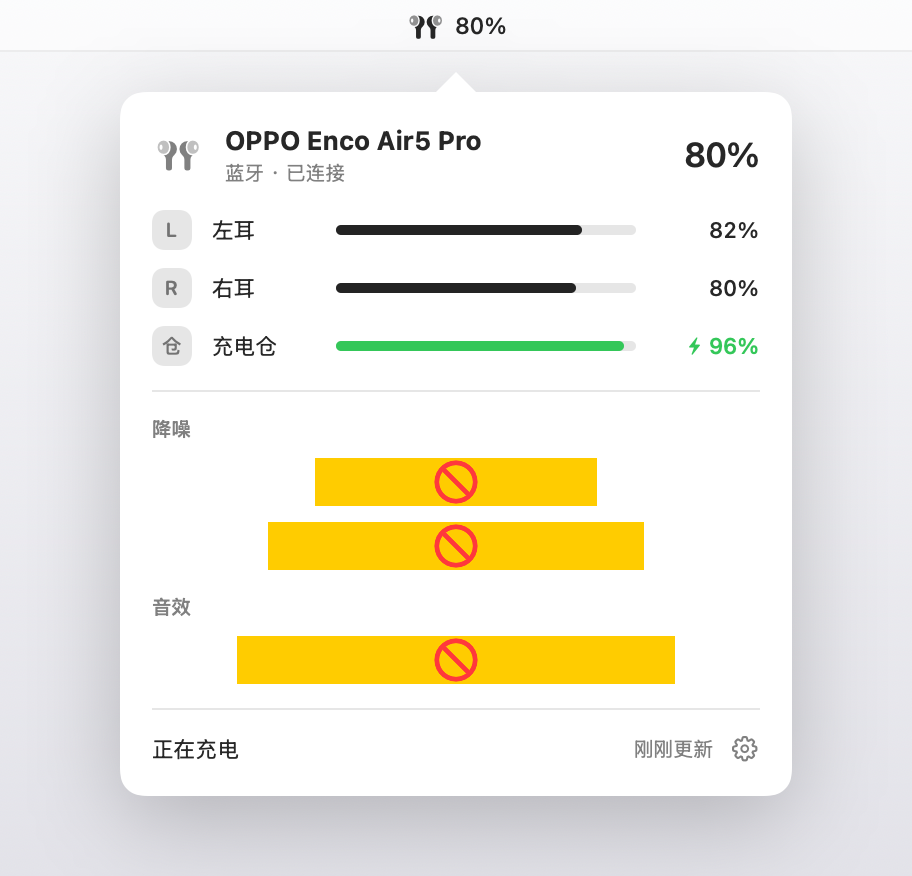
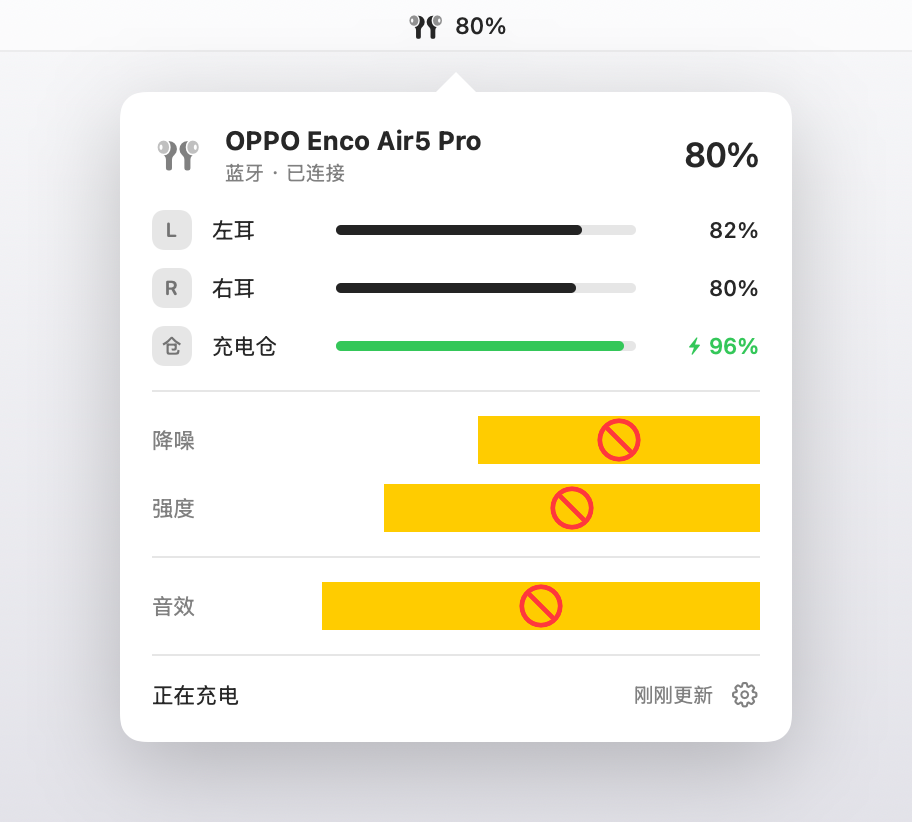
refactor: 降噪/音效改设置行布局——左标签右分段控件，强度行条件显示

diff --git a/EncoBattery.swift b/EncoBattery.swift
@@ -436,7 +436,6 @@ private struct SegmentedRow<Value: Hashable>: View {
         }
         .pickerStyle(.segmented)
         .labelsHidden()
-        .frame(maxWidth: .infinity)
         .disabled(disabled)
         .accessibilityLabel(label)
     }
@@ -446,6 +445,7 @@ private struct SegmentedRow<Value: Hashable>: View {
 
 private struct BatteryPopover: View {
     @ObservedObject var model: BatteryModel
+    @Environment(\.accessibilityReduceMotion) private var reduceMotion
     var onSetNoise: ((NoiseMode, ANCLevel?) -> Void)? = nil
     var onSetEQ: ((EQPreset) -> Void)? = nil
     var onOpenSettings: (() -> Void)? = nil
@@ -469,6 +469,7 @@ private struct BatteryPopover: View {
             }
             Divider()
             noiseSection
+            Divider()
             eqSection
             Divider()
             statusRow
@@ -511,41 +512,36 @@ private struct BatteryPopover: View {
     }
 
     private var noiseSection: some View {
-        VStack(alignment: .leading, spacing: 8) {
-            HStack(spacing: 6) {
-                Text("降噪")
-                    .font(.caption.weight(.semibold))
-                    .foregroundStyle(.secondary)
-                if model.pendingNoise { ProgressView().controlSize(.mini) }
+        VStack(spacing: 10) {
+            controlRow(label: "降噪", pending: model.pendingNoise) {
+                SegmentedRow(
+                    label: "降噪模式",
+                    options: [NoiseMode.noise, .transparency, .off].map { ($0, $0.label) },
+                    selection: model.noiseMode,
+                    disabled: controlsDisabled || model.pendingNoise
+                ) { mode in
+                    onSetNoise?(mode, nil)
+                }
             }
-            SegmentedRow(
-                label: "降噪模式",
-                options: [NoiseMode.noise, .transparency, .off].map { ($0, $0.label) },
-                selection: model.noiseMode,
-                disabled: controlsDisabled || model.pendingNoise
-            ) { mode in
-                onSetNoise?(mode, nil)
-            }
-            SegmentedRow(
-                label: "降噪强度",
-                options: ANCLevel.allCases.map { ($0, $0.label) },
-                selection: model.noiseLevel,
-                disabled: controlsDisabled || model.pendingNoise || model.noiseMode != .noise
-            ) { level in
-                onSetNoise?(.noise, level)
+            if model.noiseMode == .noise {
+                controlRow(label: "强度") {
+                    SegmentedRow(
+                        label: "降噪强度",
+                        options: ANCLevel.allCases.map { ($0, $0.label) },
+                        selection: model.noiseLevel,
+                        disabled: controlsDisabled || model.pendingNoise
+                    ) { level in
+                        onSetNoise?(.noise, level)
+                    }
+                }
+                .transition(.opacity)
             }
         }
-        .frame(maxWidth: .infinity, alignment: .leading)
+        .animation(reduceMotion ? nil : .easeInOut(duration: 0.15), value: model.noiseMode == .noise)
     }
 
     private var eqSection: some View {
-        VStack(alignment: .leading, spacing: 8) {
-            HStack(spacing: 6) {
-                Text("音效")
-                    .font(.caption.weight(.semibold))
-                    .foregroundStyle(.secondary)
-                if model.pendingEQ { ProgressView().controlSize(.mini) }
-            }
+        controlRow(label: "音效", pending: model.pendingEQ) {
             SegmentedRow(
                 label: "音效预设",
                 options: [EQPreset.original, .vocals, .bass].map { ($0, $0.label) },
@@ -555,7 +551,18 @@ private struct BatteryPopover: View {
                 onSetEQ?(preset)
             }
         }
-        .frame(maxWidth: .infinity, alignment: .leading)
+    }
+
+    private func controlRow<Control: View>(label: String, pending: Bool = false, @ViewBuilder control: () -> Control) -> some View {
+        HStack(spacing: 8) {
+            Text(label)
+                .font(.subheadline)
+                .foregroundStyle(.secondary)
+                .frame(width: 52, alignment: .leading)
+            if pending { ProgressView().controlSize(.mini) }
+            Spacer(minLength: 12)
+            control()
+        }
     }
 
     private var statusRow: some View {
